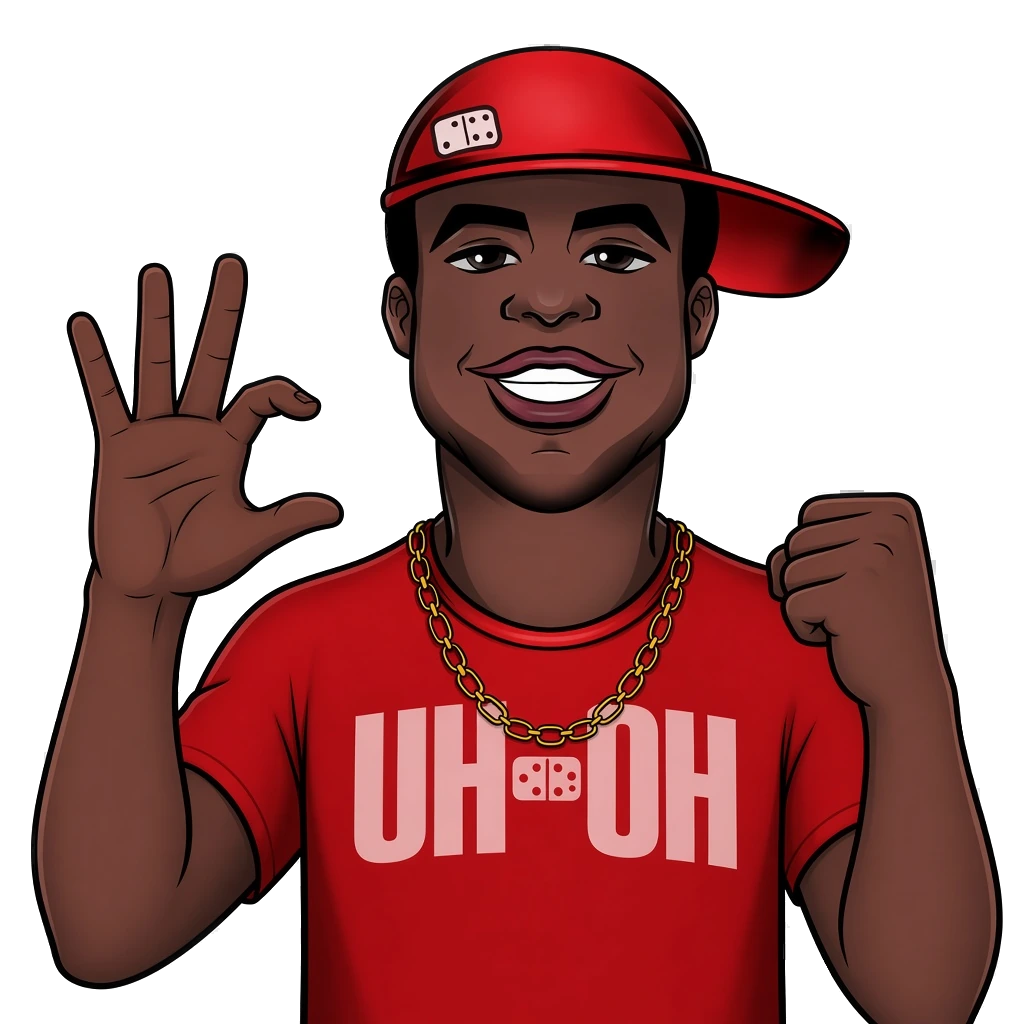
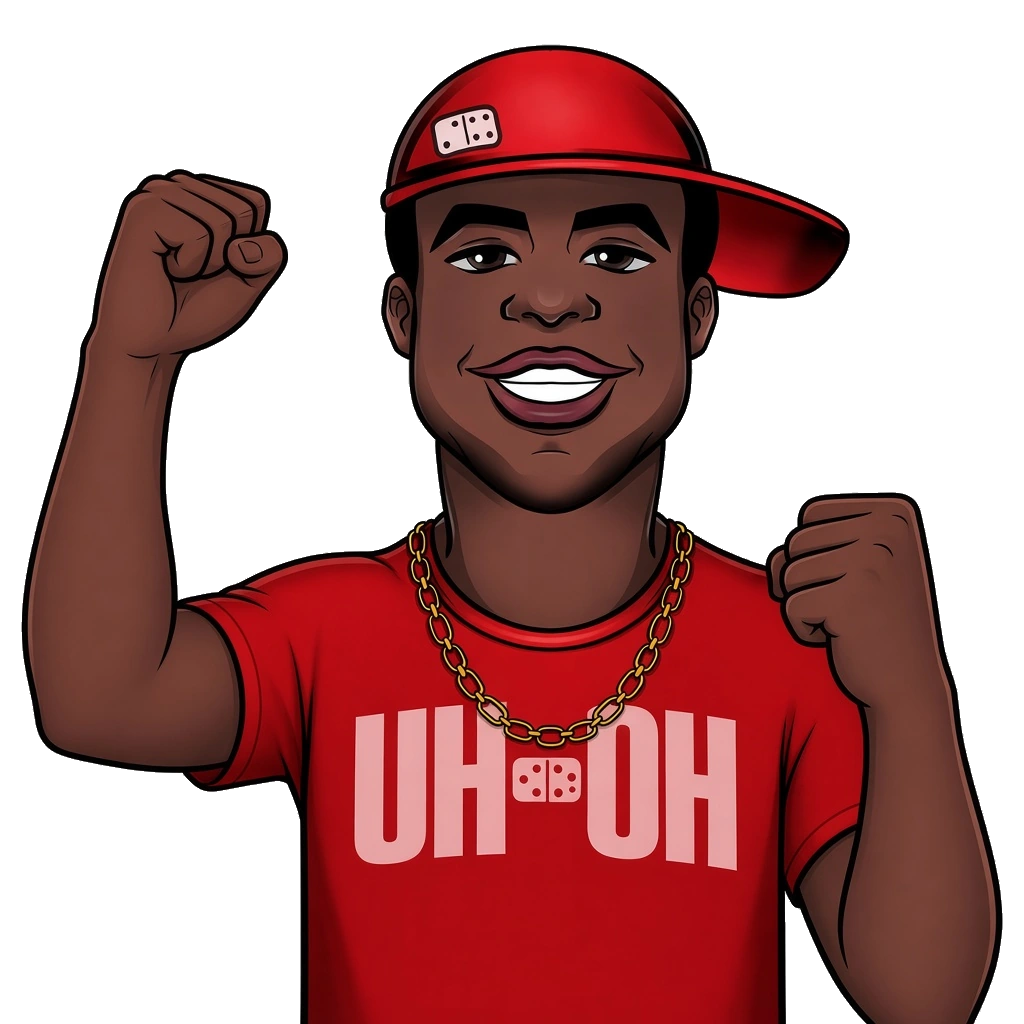
Replace 2 Hot 4 TV's win pose with a raised fist.
The Wildcats drawing is kept in the archive and is not served. His lines, lose pose, and portrait stay the same.

diff --git a/packages/web/src/lineup.tsx b/packages/web/src/lineup.tsx
@@ -3,7 +3,7 @@ import { Portrait } from "./avatars";
 import { gameTallyText } from "./game-tally.js";
 
 /** Bump when a pose file's bytes change. */
-export const POSE_ART = "1";
+export const POSE_ART = "2";
 
 /**
  * Characters with a cut-out win pose and a lose pose.
@@ -50,7 +50,7 @@ function poseUrl(avatarId: string, role: "winner" | "loser"): string | null {
   return `/poses/${avatarId}-${pose}.webp?v=${POSE_ART}`;
 }
 
-/** Cut-out win pose, including 2 Hot 4 TV's Wildcats sign. Null keeps the portrait. */
+/** Cut-out win pose. Null keeps the portrait. */
 export function winPoseSrc(avatarId: string | null | undefined): string | null {
   if (!avatarId) return null;
   return poseUrl(avatarId, "winner");

diff --git a/packages/web/src/winner-pop.test.ts b/packages/web/src/winner-pop.test.ts
@@ -145,7 +145,7 @@ describe("winner pop", () => {
   });
 
   it("keeps 2 Hot 4 TV's win pose and his exact lines", () => {
-    expect(winPoseSrc("2hot4tv")).toBe("/poses/2hot4tv-win.webp?v=1");
+    expect(winPoseSrc("2hot4tv")).toBe("/poses/2hot4tv-win.webp?v=2");
     expect(characterWinLine("2hot4tv", 0)).toBe("Uh-Oh, you KNOW!");
     expect(characterWinLine("2hot4tv", 1)).toBe("From Philly to Okinawa, I own all you!");
     expect(characterWinLine("homescreen", 0)).toBeNull();
